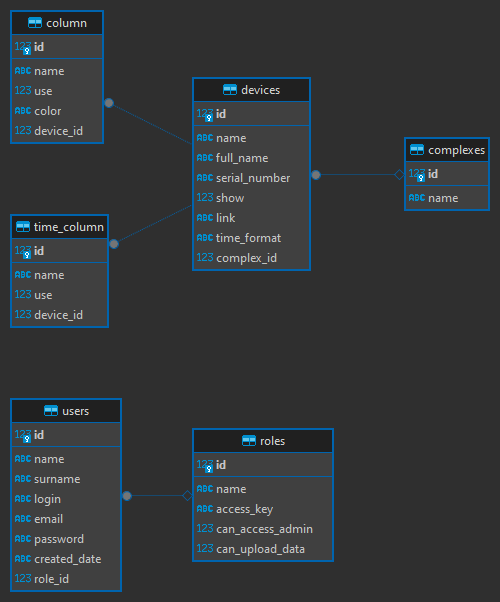
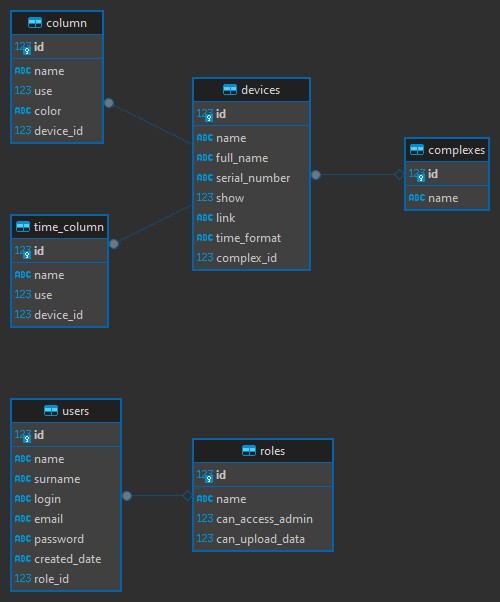
Fix models

Changed region(s): [[0.39, 0.6877, 0.66, 0.9568]]

diff --git a/msu_aerosol/msu_aerosol/models.py b/msu_aerosol/msu_aerosol/models.py
@@ -168,8 +168,6 @@ class User(BaseModel, UserMixin):
 class Role(BaseModel):
     __tablename__ = "roles"
 
-    access_key = db.Column(db.String)
-
     can_access_admin = db.Column(
         db.Boolean,
         default=False,
